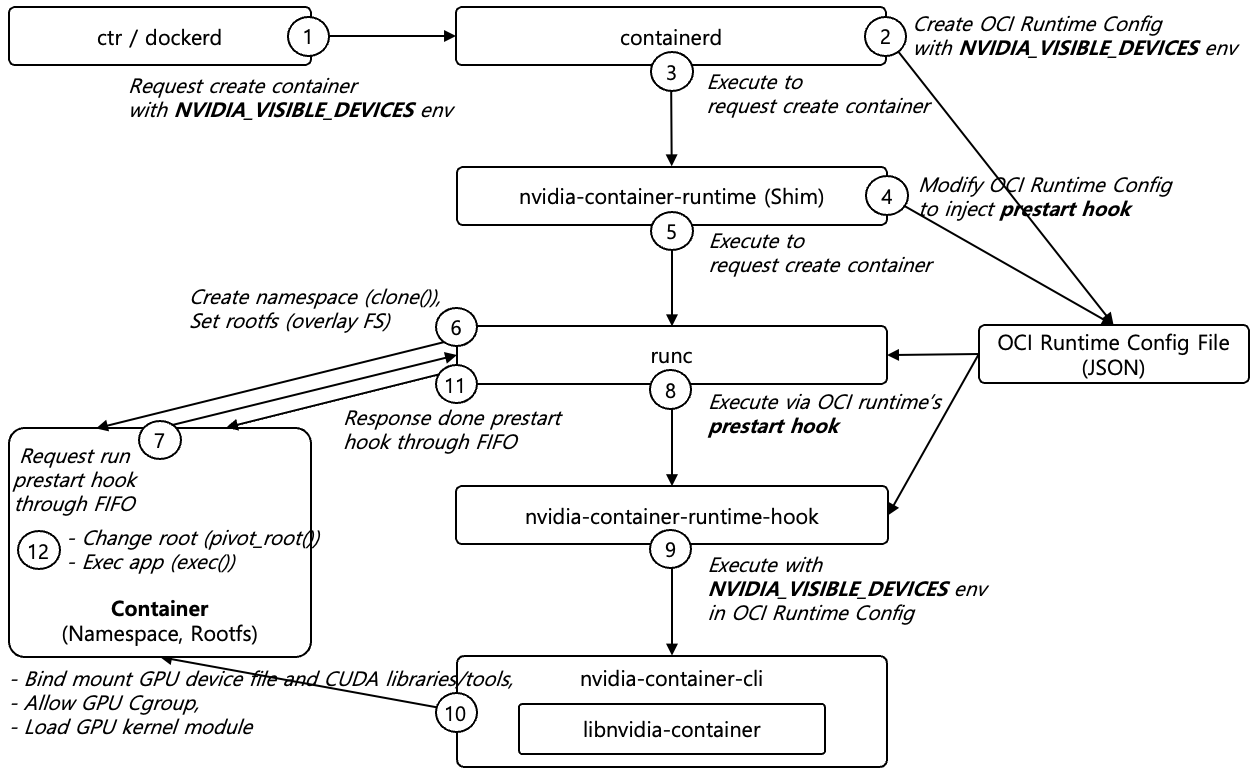
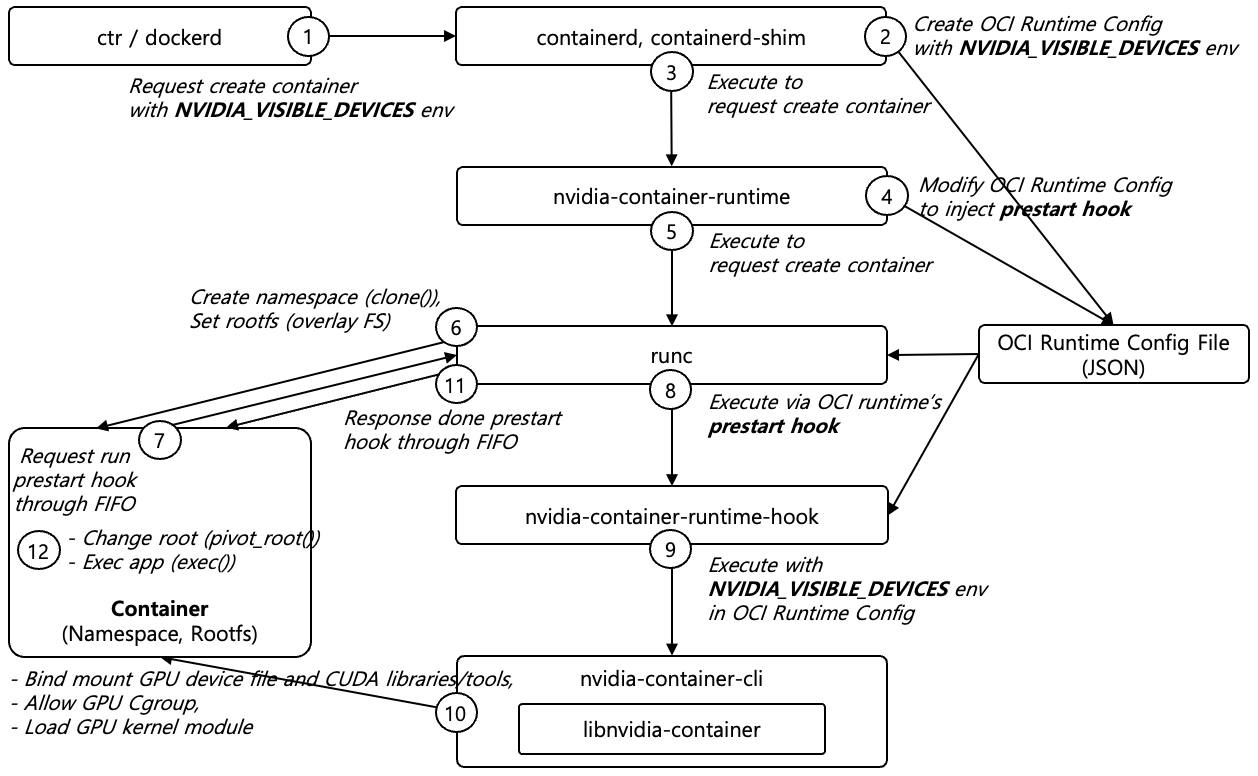
update

diff --git a/content/docs/theory-analysis/container-nvidia-gpu/index.md b/content/docs/theory-analysis/container-nvidia-gpu/index.md
@@ -29,7 +29,7 @@ Container에게 GPU를 할당하기 위해서는 **NVIDIA Container Toolkit**을
 
 ### 1.2. NVIDIA GPU 할당 과정
 
-Container에 GPU를 할당하기 위해서는 `containerd`가 `containerd-shim` 대신에 `nvidia-container-runtime` CLI를 실행하도록 설정해야 한다. `nvidia-container-runtime` CLI는 `containerd-shim`이 수행하는 Container의 Stdin/Stdout/Stderr를 Named Pipe를 통해서 다른 Process에서 접근할 수 있게 하고, Container Init Process의 Exit Code를 `containerd`에게 전달하는 역할을 수행할 뿐만이 아니라, Container에게 GPU를 할당하기 위한 추가 설정을 수행한다.
+Container에 GPU를 할당하기 위해서는 `containerd`가 `runc` CLI 대신에 `nvidia-container-runtime` CLI를 실행하도록 설정해야 한다. `nvidia-container-runtime` CLI는 `containerd`가 생성한 OCI Runtime Spec에 GPU 할당을 위한 추가적인 설정을 주입하고, 이후에 `runc` CLI를 실행하는 역할을 수행한다. 즉 `containerd`와 `runc` CLI 사이에서 Cotnainer에 GPU 할당을 위한 OCI Runtime Spec을 변경하는 역할을 수행한다. OCI Runtime Spec 변경 및 `run` CLI를 실행한 다음에 `nvidia-container-runtime` CL는 종료된다.
 
 ```toml {caption="[File 1] /etc/containerd/config.toml Example", linenos=table}
 version = 3

diff --git a/content/docs/theory-analysis/container-nvidia-gpu/index.en.md b/content/docs/theory-analysis/container-nvidia-gpu/index.en.md
@@ -29,7 +29,7 @@ To allocate GPUs to containers, the **NVIDIA Container Toolkit** must be utilize
 
 ### 1.2. NVIDIA GPU Allocation Process
 
-To allocate GPUs to containers, `containerd` must be configured to execute the `nvidia-container-runtime` CLI instead of `containerd-shim`. The `nvidia-container-runtime` CLI not only performs the role of making the container's stdin/stdout/stderr accessible from other processes through named pipes and delivering the container init process's exit code to `containerd`, but also performs additional configuration to allocate GPUs to containers.
+To allocate GPUs to containers, `containerd` must be configured to execute the `nvidia-container-runtime` CLI instead of `runc` CLI. The `nvidia-container-runtime` CLI injects additional settings for GPU allocation into the OCI Runtime Spec created by `containerd` and then executes the `runc` CLI. That is, it performs the role of modifying the OCI Runtime Spec for GPU allocation between `containerd` and the `runc` CLI. After modifying the OCI Runtime Spec and executing the `runc` CLI, the `nvidia-container-runtime` CLI terminates.
 
 ```toml {caption="[File 1] /etc/containerd/config.toml Example", linenos=table}
 version = 3
